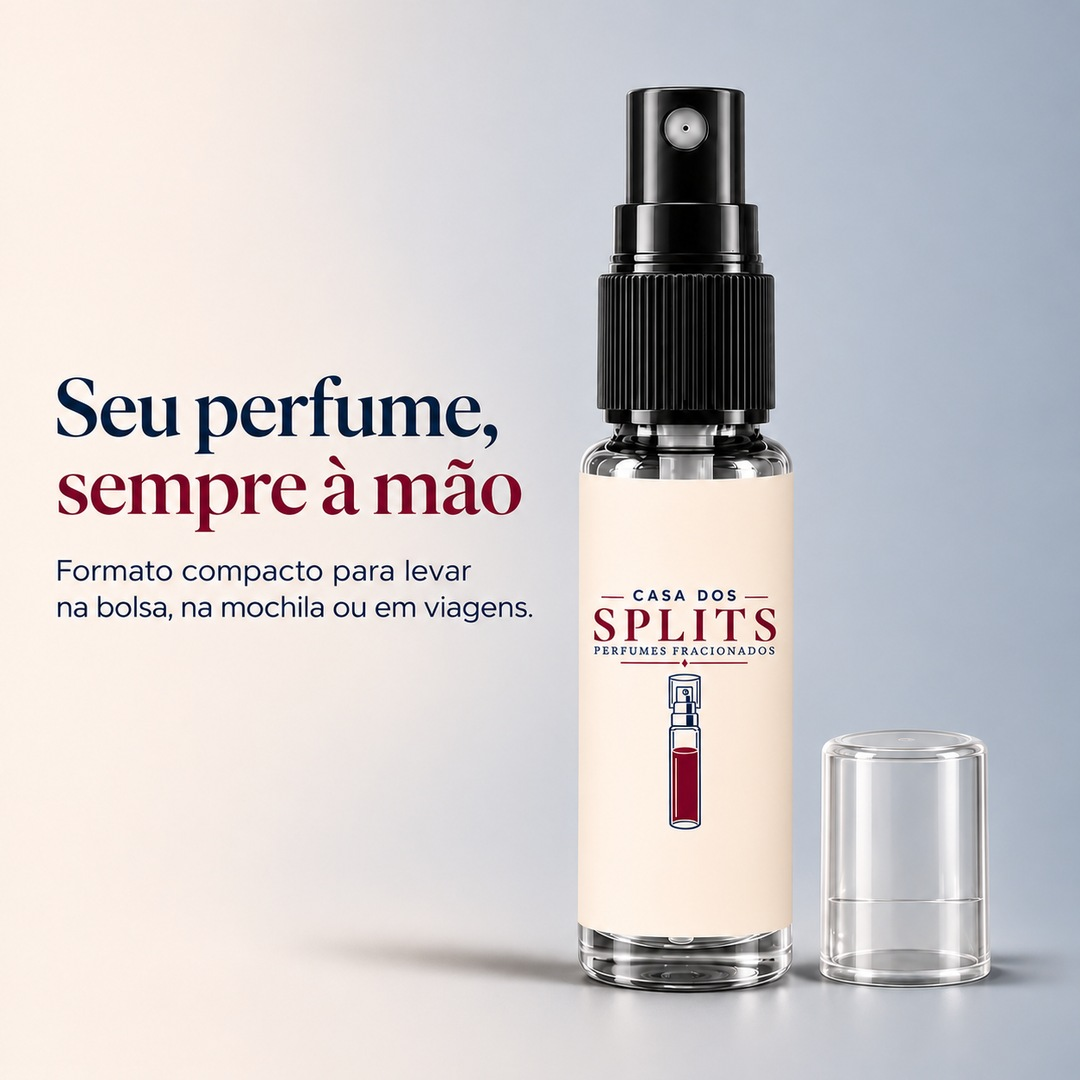
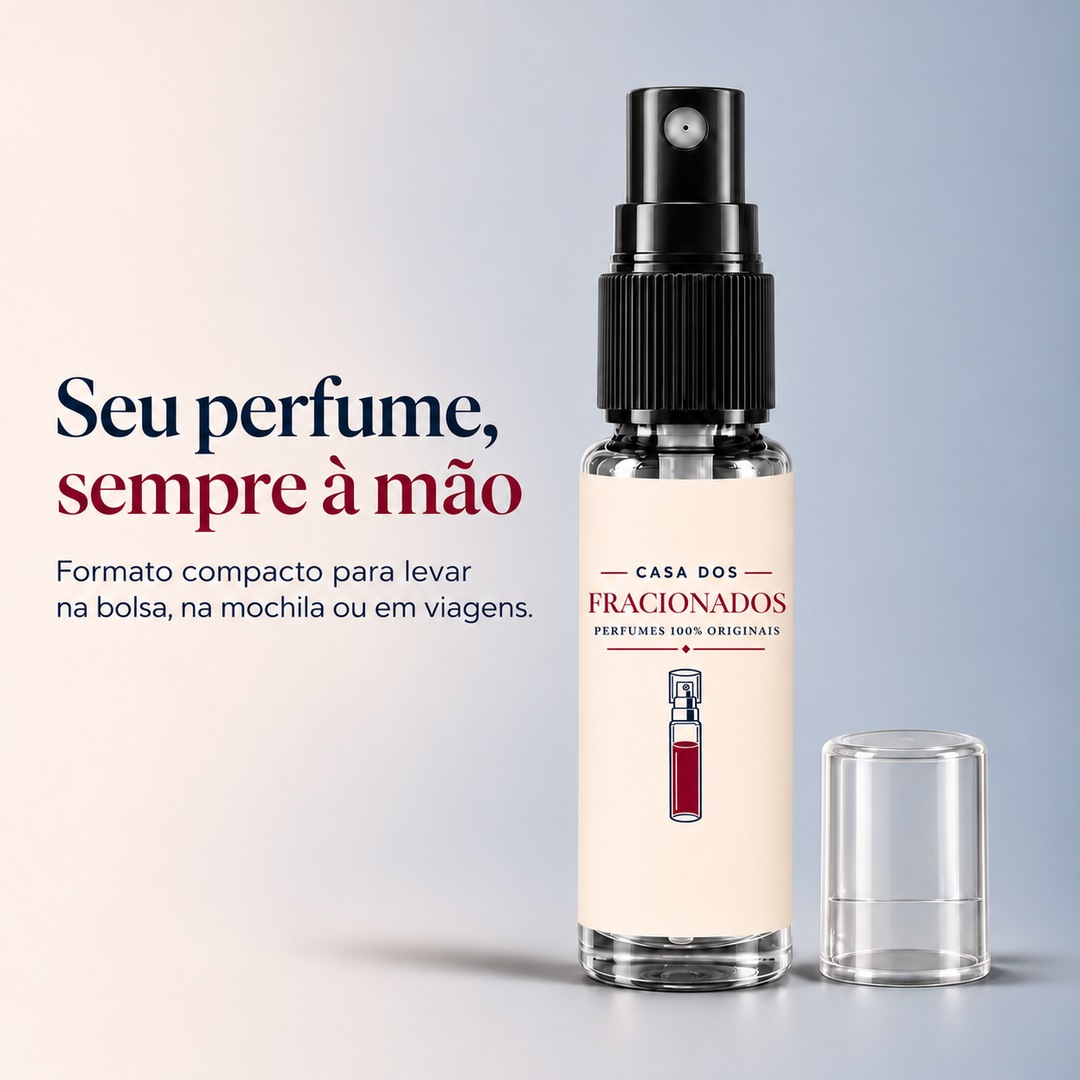
Atualiza as fotos padrao com a marca Casa dos Fracionados
Claude-Session: https://claude.ai/code/session_01GnfqDRDN7CVAh2La3YBGaf

diff --git a/INDICE.md b/INDICE.md
@@ -236,5 +236,5 @@ Pasta de cada perfume em `perfumes/` e o nome completo. Links diretos no formato
 ## Fotos padrão
 
 - `padrao/volume-do-decant.jpg` — frascos de 3 mL e 5 mL (volume do decant)
-- `padrao/perfume-sempre-a-mao.jpg` — decant Casa dos Splits, formato compacto
+- `padrao/perfume-sempre-a-mao.jpg` — decant Casa dos Fracionados, formato compacto
 - `padrao/decant-casa-dos-fracionados.jpg` — foto do decant sozinho, centralizado
